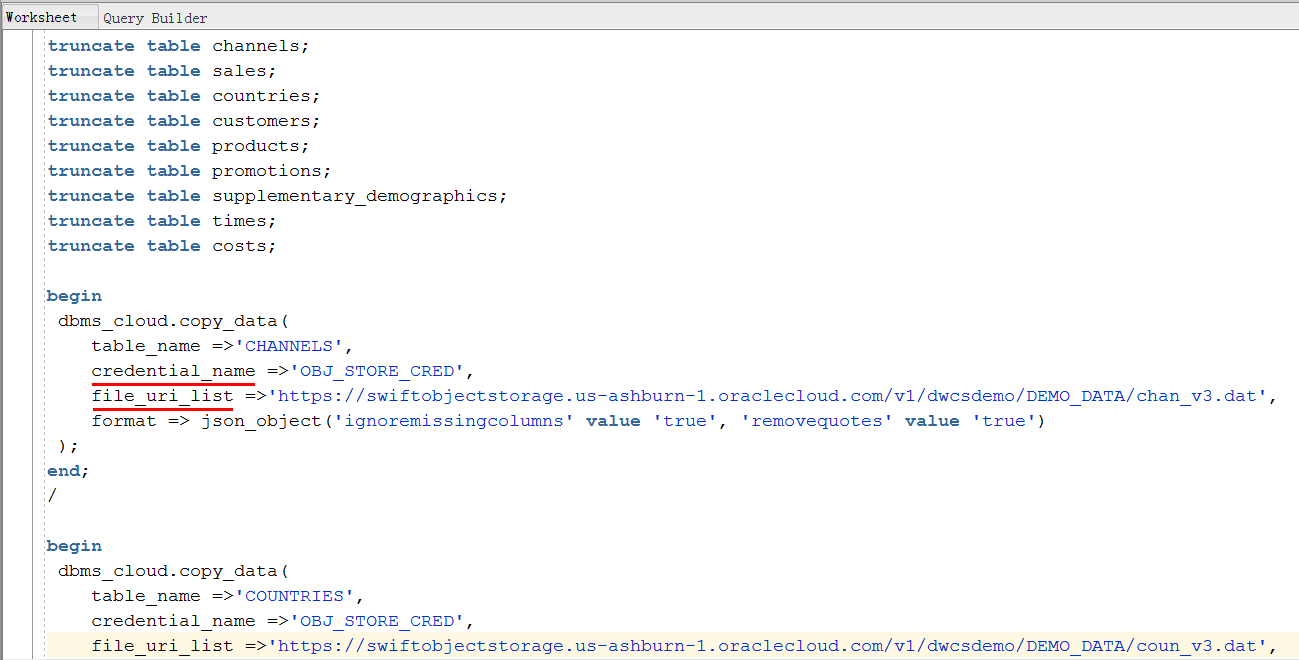
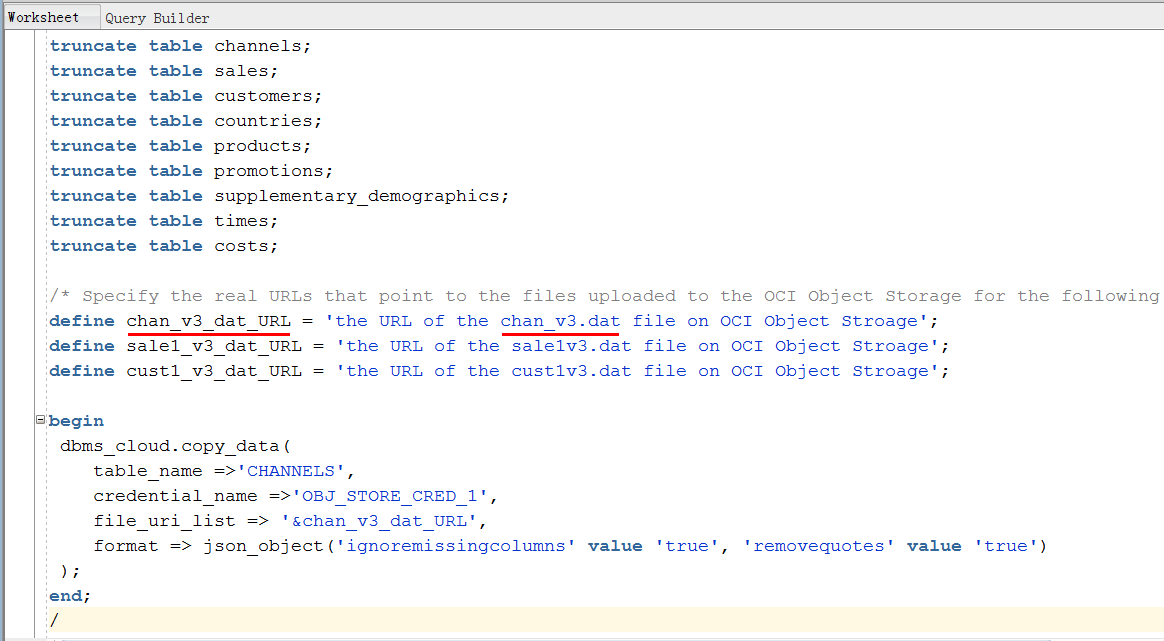
update scripts

diff --git a/workshops/journey4-adwc/LabGuide300.md b/workshops/journey4-adwc/LabGuide300.md
@@ -38,6 +38,7 @@ In this section of the lab, you will be uploading files to the Oracle Cloud Innf
     -   Customer data: <a href="https://raw.githubusercontent.com/oracle/db-sample-schemas/master/sales_history/cust1v3.dat" target="_blank">cust1v3.dat</a>
     -   Channel data: <a href="https://raw.githubusercontent.com/oracle/db-sample-schemas/master/sales_history/chan_v3.dat" target="_blank">chan_v3.dat</a>
     -   Channel data (with intentional errors): <a href="files/chan_v3_error.dat" target="_blank">chan_v3_error.dat</a>
+    -   Channel data (with intentional errors): <a href="files/channels.csv" target="_blank">channels.csv</a>
     
 ### STEP 2: Navigate to the OCI Compute Console 
 
@@ -80,16 +81,25 @@ In OCI Object Storage, a bucket is the terminology for a container of multiple f
 -   Using the browse button or drag-and-drop select the **sale1v3.dat** file you downloaded earlier and click Upload Object:
     ![](images/300/snap0014303.jpg)
 
--   Repeat this for the **cust1v3.dat**, **chan_v3.dat**, and **chan_v3_error.dat** files.
+-   Repeat this for the **cust1v3.dat**, **chan_v3.dat**, **chan_v3_error.dat**, **channels.csv** files.
 
--   The end result should look like this with all 4 files listed under Objects:
+-   The end result should look like this with all 5 files listed under Objects:
     ![](images/300/snap0014304.jpg)
 
-    
+### STEP 6: Construct the URLs of Uploaded Files.
+-   Construct the URL that points to the location of the chan_v3.dat file staged in the OCI Object Storage. The URL is structured as follows. The values for you to specify are in bold:
+https://swiftobjectstorage.<**region name**>.oraclecloud.com/v1/<**tenant name**>/<**bucket name**>/<**file name**>
+In this example, the region name is us-ashburn-1, the tenant name is dbayard00, and the bucket name is ADWCLab. Yours might be different. So the URL of the chan_v3.dat file is:
+https://swiftobjectstorage.**us-ashburn-1**.oraclecloud.com/v1/<**dbayard00**>/<**ADWCLab**>/**chan_v3.dat**
+    ![](images/300/ConstructURLs.jpg)
+
+-   **Repeat** this for the **cust1v3.dat**, **chan_v3.dat**, **chan_v3_error.dat**, **channels.csv** files. 
+
+-   **Save** the URLs you constructed to a note. We will use the URLs in the following steps.
 
 # Create the tables
 ## Steps
-### STEP 1: Create Target Tables for Data Loading
+### STEP 7: Create Target Tables for Data Loading
 
 -   Connected as your user in SQL Developer, copy and paste <a href="./scripts/300/create_tables.txt" target="_blank">this code snippet</a> to SQL Developer worksheet. Take a moment to examine the script. Then click the **Run Script** button to run it.
 
@@ -99,7 +109,7 @@ Note that you do not need to specify anything other than the list of columns whe
 
 # Load data from the Object Store
 ## Steps
-### STEP 2: Creating an Object Store Swift Password
+### STEP 8: Creating an Object Store Swift Password
 
 To load data from the Oracle Cloud Infrastructure(OCI) Object Storage you will need a Cloud user with the appropriate privileges to read data (or upload) data to the Object Store. The communication between the database and the object store relies on the Swift protocol and username/password authentication.
 
@@ -143,7 +153,7 @@ In order to access data in the Object Store you have to enable your database use
 
 ### STEP 4: Loading Data Using the Data Import Wizard in SQL Developer
 
-**Note:** Beginning with SQL Developer 18.1 the data import wizard supports loading from files in the Object Store straight into your Autonomous Data Warehouse. This release of SQL Developer is going to be available soon, so for now this demo will be shown by the Oracle instructor. After that demo you can continue with the “STEP 5: Loading data using the new PL/SQL package, DBMS\_CLOUD” section to load data using PL/SQL.
+**Note:** Beginning with SQL Developer 18.1 the data import wizard supports loading from files in the Object Store straight into your Autonomous Data Warehouse. **This release of SQL Developer is going to be available soon, so for now this step will be demonstrated by the Oracle instructor if you are in an Oracle instructor-led workshop**. After that demo you can continue with the next step "Loading data using the new PL/SQL package, DBMS\_CLOUD” to load data using PL/SQL.
 
 -   Expand ‘**Tables**’ in your user schema object tree. You will see all the tables you have created previously. Select table **CHANNELS**. Clicking the right mouse button opens the context-sensitive menu in SQL Developer; select ‘**Import Data**’:
 
@@ -154,7 +164,7 @@ In order to access data in the Object Store you have to enable your database use
 
     -   Select **Oracle Cloud Storage** as source for the data load
 
-    -   Enter the following URI as the file to load:
+    -   Enter the URL of channels.csv as the file to load. You constructed the URL in STEP 6. In this example, it is:
         https://swiftobjectstorage.us-ashburn-1.oraclecloud.com/v1/dwcsdemo/DEMO\_DATA/channels.csv
 
     -   Select the Credential you previously created for authentication with the Object Store, **OBJ\_STORE\_CRED**
@@ -186,17 +196,12 @@ When you are satisfied with the file content view, click **NEXT**.
 
 Alternative to the wizard-guided data load you can use the PL/SQL package **DBMS_CLOUD** directly. This is the preferred choice for any load automation.
 
--   Connected as your user in SQL Developer, copy and paste <a href="./scripts/300/load_data.txt" target="_blank">this code snippet</a> to SQL Developer worksheet.
+-   Connected as your user in SQL Developer, copy and paste <a href="./scripts/300/load_data.txt" target="_blank">this code snippet</a> to SQL Developer worksheet. We use the copy_data procedure of the DBMS_CLOUD package to copy the data (chan_v3.dat, sale1v3.dat, and cust1v3.dat) staged in your object store.
+    -   For the credential_name parameter, specify the name of the credential you defined in the step of Create a Database Credential for Your User.
 
-    Specify the parameters: **credential_name** and **file_uri_list**.
+    -   For the file_uri_list parameter, specify the URL that points to the chan_v3.data file uploaded to the OCI Object Storage in the definition of chan_v3_dat_URL variable. You have constructed and saved the URL in the step of Construct the URLs of Uploaded Files. Repeat this for the sale1_v3_dat_URL and cust1_v3_dat_URL variables in the script.
 
-    **Note:** If you are in an Oracle instructor-led workshop, the parameters have been specified for you. You can ran the script as it is.
-
-    -   For credential_name, specify the name of the credential you defined in STEP 2: Create a Database Credential for Your User.
-
-    -   For file_uri_list, specify the URL that points to the location of the file staged in the object store. The URL is structured as follows. The values you specify are in bold:
-
-        https://swiftobjectstorage.<**region name**>.oraclecloud.com/v1/<**tenant name**>/<**bucket name**>/<**file name**>
+        
 
 ![](./images/300/Picture300-19.png)
 
